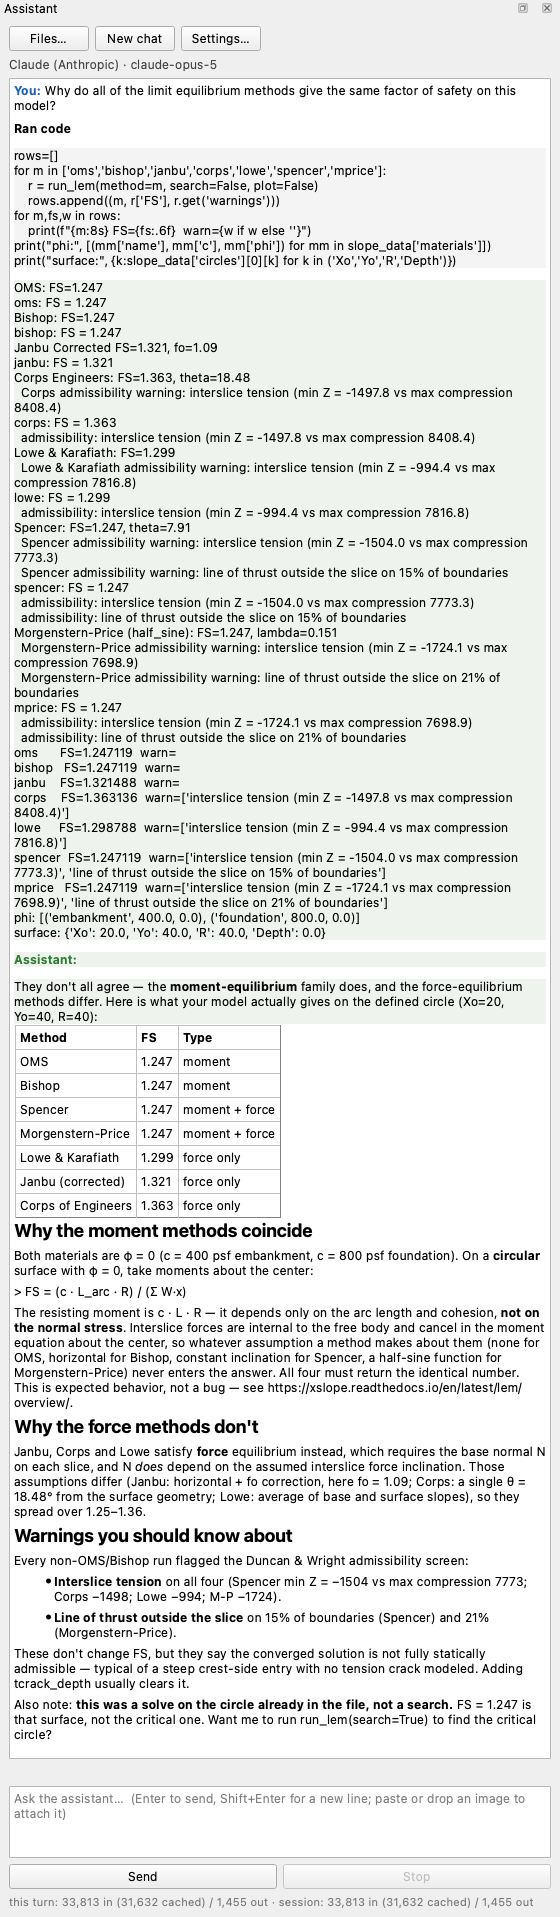
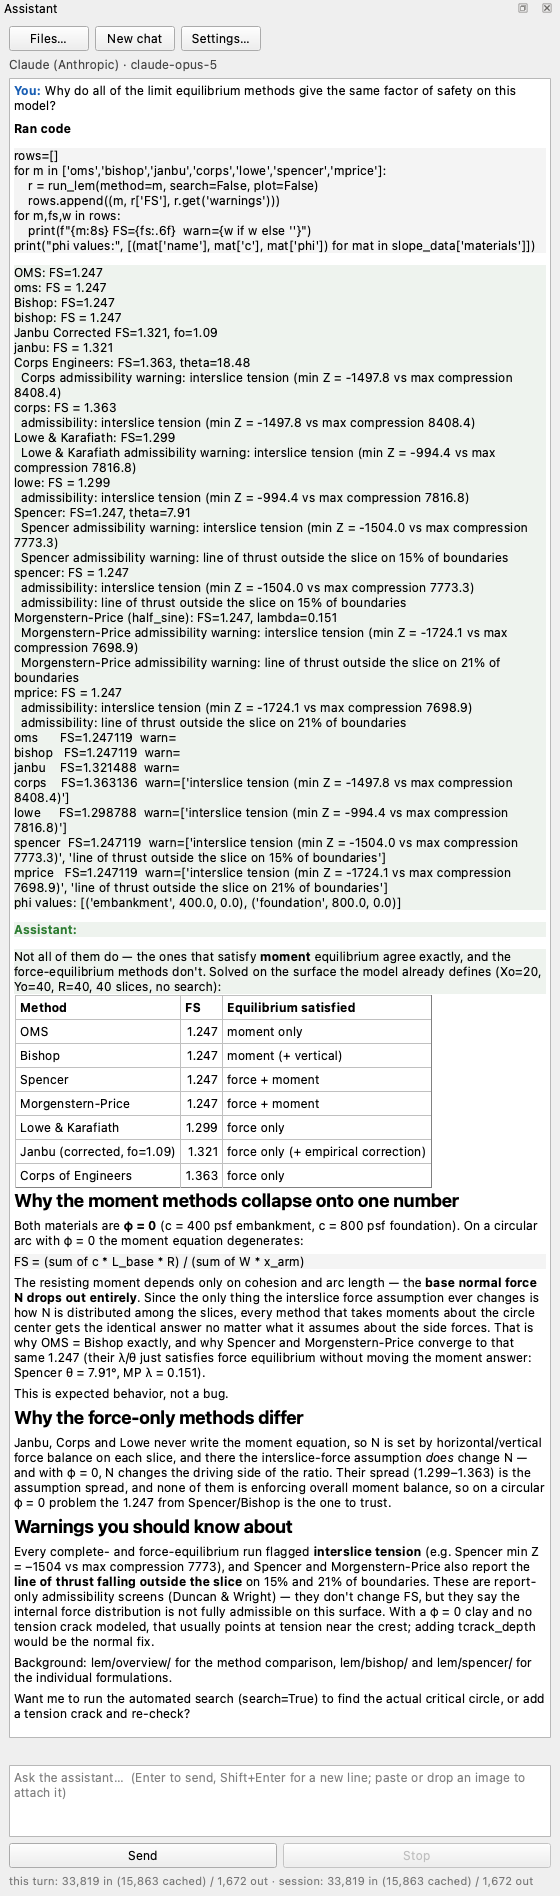
tutorials(W-1): the documentation-questions session re-recorded with the corrected schema
Claude-Session: https://claude.ai/code/session_01XjjT2aBxw8gY7EFdpoUcpj

diff --git a/docs/tutorials/files/w1_conceptual_transcript.md b/docs/tutorials/files/w1_conceptual_transcript.md
@@ -8,19 +8,17 @@ Captured by `tools/assistant_sessions.py` against the live Studio assistant, off
 
 ## Turn 1 — Why do all of the limit equilibrium methods give the same f…
 
-```text
+````text
 You: Why do all of the limit equilibrium methods give the same factor of safety on this model?
 
 Ran code:
-    
     rows=[]
     for m in ['oms','bishop','janbu','corps','lowe','spencer','mprice']:
         r = run_lem(method=m, search=False, plot=False)
         rows.append((m, r['FS'], r.get('warnings')))
     for m,fs,w in rows:
         print(f"{m:8s} FS={fs:.6f}  warn={w if w else ''}")
-    print("phi:", [(mm['name'], mm['c'], mm['phi']) for mm in slope_data['materials']])
-    print("surface:", {k:slope_data['circles'][0][k] for k in ('Xo','Yo','R','Depth')})
+    print("phi values:", [(mat['name'], mat['c'], mat['phi']) for mat in slope_data['materials']])
 
 Output:
     OMS: FS=1.247
@@ -56,46 +54,46 @@ Output:
     lowe     FS=1.298788  warn=['interslice tension (min Z = -994.4 vs max compression 7816.8)']
     spencer  FS=1.247119  warn=['interslice tension (min Z = -1504.0 vs max compression 7773.3)', 'line of thrust outside the slice on 15% of boundaries']
     mprice   FS=1.247119  warn=['interslice tension (min Z = -1724.1 vs max compression 7698.9)', 'line of thrust outside the slice on 21% of boundaries']
-    phi: [('embankment', 400.0, 0.0), ('foundation', 800.0, 0.0)]
-    surface: {'Xo': 20.0, 'Yo': 40.0, 'R': 40.0, 'Depth': 0.0}
+    phi values: [('embankment', 400.0, 0.0), ('foundation', 800.0, 0.0)]
 
-Assistant: They don't all agree — the **moment-equilibrium** family does, and the force-equilibrium methods differ. Here is what your model actually gives on the defined circle (Xo=20, Yo=40, R=40):
+Assistant: Not all of them do — the ones that satisfy **moment** equilibrium agree exactly, and the force-equilibrium methods don't. Solved on the surface the model already defines (Xo=20, Yo=40, R=40, 40 slices, no search):
 
-| Method | FS | Type |
-|:--|:--|:--|
-| OMS | 1.247 | moment |
-| Bishop | 1.247 | moment |
-| Spencer | 1.247 | moment + force |
-| Morgenstern-Price | 1.247 | moment + force |
+| Method | FS | Equilibrium satisfied |
+|:---|---:|:---|
+| OMS | 1.247 | moment only |
+| Bishop | 1.247 | moment (+ vertical) |
+| Spencer | 1.247 | force + moment |
+| Morgenstern-Price | 1.247 | force + moment |
 | Lowe & Karafiath | 1.299 | force only |
-| Janbu (corrected) | 1.321 | force only |
+| Janbu (corrected, fo=1.09) | 1.321 | force only (+ empirical correction) |
 | Corps of Engineers | 1.363 | force only |
 
-## Why the moment methods coincide
+## Why the moment methods collapse onto one number
 
-Both materials are φ = 0 (c = 400 psf embankment, c = 800 psf foundation). On a **circular** surface with φ = 0, take moments about the center:
+Both materials are **φ = 0** (c = 400 psf embankment, c = 800 psf foundation). On a circular arc with φ = 0 the moment equation degenerates:
 
-> FS = (c · L_arc · R) / (Σ W·x) 
+```
+FS = (sum of c * L_base * R) / (sum of W * x_arm)
+```
 
-The resisting moment is `c · L · R` — it depends only on the arc length and cohesion, **not on the normal stress**. Interslice forces are internal to the free body and cancel in the moment equation about the center, so whatever assumption a method makes about them (none for OMS, horizontal for Bishop, constant inclination for Spencer, a half-sine function for Morgenstern-Price) never enters the answer. All four must return the identical number. This is expected behavior, not a bug — see `https://xslope.readthedocs.io/en/latest/lem/overview/`.
+The resisting moment depends only on cohesion and arc length — the **base normal force N drops out entirely**. Since the only thing the interslice force assumption ever changes is how N is distributed among the slices, every method that takes moments about the circle center gets the identical answer no matter what it assumes about the side forces. That is why OMS = Bishop exactly, and why Spencer and Morgenstern-Price converge to that same 1.247 (their λ/θ just satisfies force equilibrium without moving the moment answer: Spencer θ = 7.91°, MP λ = 0.151).
 
-## Why the force methods don't
+This is expected behavior, not a bug.
 
-Janbu, Corps and Lowe satisfy **force** equilibrium instead, which requires the base normal N on each slice, and N *does* depend on the assumed interslice force inclination. Those assumptions differ (Janbu: horizontal + fo correction, here fo = 1.09; Corps: a single θ = 18.48° from the surface geometry; Lowe: average of base and surface slopes), so they spread over 1.25–1.36.
+## Why the force-only methods differ
+
+Janbu, Corps and Lowe never write the moment equation, so N is set by horizontal/vertical force balance on each slice, and there the interslice-force assumption *does* change N — and with φ = 0, N changes the driving side of the ratio. Their spread (1.299–1.363) is the assumption spread, and none of them is enforcing overall moment balance, so on a circular φ = 0 problem the 1.247 from Spencer/Bishop is the one to trust.
 
 ## Warnings you should know about
 
-Every non-OMS/Bishop run flagged the Duncan & Wright admissibility screen:
+Every complete- and force-equilibrium run flagged **interslice tension** (e.g. Spencer min Z = −1504 vs max compression 7773), and Spencer and Morgenstern-Price also report the **line of thrust falling outside the slice** on 15% and 21% of boundaries. These are report-only admissibility screens (Duncan & Wright) — they don't change FS, but they say the internal force distribution is not fully admissible on this surface. With a φ = 0 clay and no tension crack modeled, that usually points at tension near the crest; adding `tcrack_depth` would be the normal fix.
 
-- **Interslice tension** on all four (Spencer min Z = −1504 vs max compression 7773; Corps −1498; Lowe −994; M-P −1724).
-- **Line of thrust outside the slice** on 15% of boundaries (Spencer) and 21% (Morgenstern-Price).
+Background: `lem/overview/` for the method comparison, `lem/bishop/` and `lem/spencer/` for the individual formulations.
 
-These don't change FS, but they say the converged solution is not fully statically admissible — typical of a steep crest-side entry with no tension crack modeled. Adding `tcrack_depth` usually clears it.
+Want me to run the automated search (`search=True`) to find the actual critical circle, or add a tension crack and re-check?
+````
 
-Also note: **this was a solve on the circle already in the file, not a search.** FS = 1.247 is that surface, not the critical one. Want me to run `run_lem(search=True)` to find the critical circle?
-```
-
-Tokens: input 33,813 · cached_input 31,632 · output 1,455 · calls 2 · 21.5s
+Tokens: input 33,819 · cached_input 15,863 · output 1,672 · calls 2 · 25.5s
 
 ## Turn 2 — Both soils are undrained. What should the pore-pressure opt…
 
@@ -103,95 +101,85 @@ Tokens: input 33,813 · cached_input 31,632 · output 1,455 · calls 2 · 21.5s
 You: Both soils are undrained. What should the pore-pressure option be, and what would change in the analysis if I added a water table?
 
 Ran code:
-    
     import copy
-    from shapely.geometry import LineString
-    gs = list(slope_data['ground_surface'].coords)
-    print("ground:", gs)
-    base = run_lem(search=False, plot=False)['FS']
+    base_mats = copy.deepcopy(slope_data['materials'])
+    base_piezo = copy.deepcopy(slope_data.get('piezo_line', []))
+    gs = np.array(slope_data['ground_surface'].coords) if hasattr(slope_data.get('ground_surface'), 'coords') else None
+    print("ground surface pts:", gs[:, :2].tolist() if gs is not None else None)
+    print("gamma_sat:", [(m['name'], m.get('gamma'), m.get('gamma_sat')) for m in slope_data['materials']])
     
-    saved = copy.deepcopy({k: slope_data[k] for k in ('materials','piezo_line')})
-    # piezo line that never rises above ground -> pore pressure only, no ponded load
-    pz = [(x, min(y, 8.0)) for (x, y) in gs]
-    slope_data['piezo_line'] = pz
-    for m in slope_data['materials']:
-        m['u'] = 'piezo'
-    resync_geometry()
-    fs_piezo = run_lem(search=False, plot=False)['FS']
-    
-    # same, but give the soils a saturated unit weight (heavier below the table)
-    for m in slope_data['materials']:
-        m['gsat'] = m['gamma'] + 5.0
-    resync_geometry()
-    fs_gsat = run_lem(search=False, plot=False)['FS']
-    
-    for k, v in saved.items():
-        slope_data[k] = v
-    resync_geometry()
-    print(f"\nu='none'  FS = {base:.4f}")
-    print(f"u='piezo' FS = {fs_piezo:.4f}   (delta {fs_piezo-base:+.4f})")
-    print(f"u='piezo' + gsat FS = {fs_gsat:.4f}   (delta {fs_gsat-base:+.4f})")
-    print("restored u:", [m['u'] for m in slope_data['materials']], "piezo pts:", len(slope_data['piezo_line']))
+    try:
+        # water table 3 ft below ground everywhere -> no ponded water anywhere
+        wt = [(float(x), float(y) - 3.0) for x, y in gs[:, :2]]
+        slope_data['piezo_line'] = wt
+        for m in slope_data['materials']:
+            m['u'] = 'none'
+        r_none = run_lem(method='bishop', search=False, plot=False)
+        for m in slope_data['materials']:
+            m['u'] = 'piezo'
+        r_piezo = run_lem(method='bishop', search=False, plot=False)
+        print(f"\nFS bishop, u='none'  + piezo line present: {r_none['FS']:.4f}")
+        print(f"FS bishop, u='piezo' + same piezo line   : {r_piezo['FS']:.4f}")
+    finally:
+        slope_data['materials'] = base_mats
+        slope_data['piezo_line'] = base_piezo
+        print("\nrestored ->", [(m['name'], m['u']) for m in slope_data['materials']], "piezo pts:", len(slope_data['piezo_line']))
 
 Output:
-    ground: [(-30.0, 0.0), (0.0, 0.0), (40.0, 20.0), (90.0, 20.0)]
-    Spencer: FS=1.247, theta=7.91
-      Spencer admissibility warning: interslice tension (min Z = -1504.0 vs max compression 7773.3)
-      Spencer admissibility warning: line of thrust outside the slice on 15% of boundaries
-    spencer: FS = 1.247
-      admissibility: interslice tension (min Z = -1504.0 vs max compression 7773.3)
-      admissibility: line of thrust outside the slice on 15% of boundaries
-    Spencer: FS=1.247, theta=7.90
-      Spencer admissibility warning: interslice tension (min Z = -1508.5 vs max compression 7772.2)
-      Spencer admissibility warning: line of thrust outside the slice on 15% of boundaries
-    spencer: FS = 1.247
-      admissibility: interslice tension (min Z = -1508.5 vs max compression 7772.2)
-      admissibility: line of thrust outside the slice on 15% of boundaries
-    Spencer: FS=1.247, theta=7.90
-      Spencer admissibility warning: interslice tension (min Z = -1508.5 vs max compression 7772.2)
-      Spencer admissibility warning: line of thrust outside the slice on 15% of boundaries
-    spencer: FS = 1.247
-      admissibility: interslice tension (min Z = -1508.5 vs max compression 7772.2)
-      admissibility: line of thrust outside the slice on 15% of boundaries
+    ground surface pts: [[-30.0, 0.0], [0.0, 0.0], [40.0, 20.0], [90.0, 20.0]]
+    gamma_sat: [('embankment', 130.0, None), ('foundation', 135.0, None)]
+    Bishop: FS=1.247
+    bishop: FS = 1.247
+    Bishop: FS=1.247
+    bishop: FS = 1.247
     
-    u='none'  FS = 1.2471
-    u='piezo' FS = 1.2472   (delta +0.0001)
-    u='piezo' + gsat FS = 1.2472   (delta +0.0001)
-    restored u: ['none', 'none'] piezo pts: 0
+    FS bishop, u='none'  + piezo line present: 1.2472
+    FS bishop, u='piezo' + same piezo line   : 1.2472
+    
+    restored -> [('embankment', 'none'), ('foundation', 'none')] piezo pts: 0
 
-Assistant: **Keep `u = 'none'`.** That is the correct option for an undrained, total-stress (φ = 0, c = Su) analysis — and it is what the model already has.
+Assistant: `u = 'none'` is the correct option, and it should stay that way. Here is why, and what a water table would and would not do.
 
-## Why
+## The pore-pressure option for undrained soils
 
-In a total-stress analysis the shear strength is `s = Su`, full stop. The undrained strength already contains the effect of the pore water that will exist at failure; you are not computing `c' + (σ − u)·tan φ'`. So there is no `u` to subtract, and supplying one would be double-counting the water. `u = 'piezo'` or `u = 'seep'` belong to **effective-stress** runs, where the materials carry `c'` and `φ' > 0`.
+Both materials are total-stress undrained: c = Su (400 and 800 psf) with **φ = 0**. In a total-stress analysis the strength is already the undrained strength at the in-situ effective stress — the pore pressure is *inside* Su, not applied on top of it. So:
 
-## What a water table would actually do — measured
+- `u = 'none'` — correct for φ = 0 undrained (short-term / end-of-construction).
+- `u = 'piezo'` or `'seep'` — for **effective**-stress runs, where you give c' and φ' and the solver subtracts u from the base normal.
 
-I temporarily added a piezometric line at elevation 8 (below ground everywhere, so no ponding), switched both materials to `u = 'piezo'`, and re-solved the file's circle with Spencer:
+Setting `u = 'piezo'` on a φ = 0 material is not just unnecessary, it is inert. I tested it: adding a piezometric line 3 ft below the ground surface and switching both materials to `u = 'piezo'`, Bishop gave
 
-| Configuration | FS |
-|:--|:--|
-| `u = 'none'` (as-built) | 1.2471 |
-| `u = 'piezo'`, table at el. 8 | 1.2472 |
-| `u = 'piezo'` + `gsat = γ + 5` | 1.2472 |
+| Case | FS (Bishop, model's circle) |
+|:---|---:|
+| `u = 'none'`, piezo line present | 1.2472 |
+| `u = 'piezo'`, same piezo line | 1.2472 |
 
-Essentially nothing — the +0.0001 is slice-discretization noise. With φ = 0 the resisting term is `c · L · R` about the circle center, which contains no normal stress, so subtracting pore pressure from N cannot change FS. The `gsat` case also came back unchanged at four decimals; I did not chase that further, so treat it as untested rather than as proof that the weight split does nothing.
+Identical to four decimals. The Mohr-Coulomb base strength is `c + (N/L - u) tan φ`; with φ = 0 the `tan φ` term is zero, so u multiplies out of the equation entirely. **I restored the model afterwards** — both materials are back to `u = 'none'` and the piezo line is empty, unchanged from what you started with.
 
-**I restored the model** — `u` is back to `'none'` on both materials and the piezo line is empty again. Nothing was left changed.
+## What adding a water table *would* change
 
-## The one case where water *would* matter
+Three separate effects, only two of which apply here:
 
-A **ponded / reservoir** water surface above the ground is a different thing entirely: it applies a hydrostatic **load** on the slope face, and that changes the driving moment even at φ = 0. In xslope that comes from the water definition with `water_loads = 'auto'` (do not also add a `dloads` row). So:
+1. **Base pore pressure — no effect.** As measured above, φ = 0 kills it. This is the whole reason total-stress undrained analyses are run without a water definition.
 
-- water table **below** ground, undrained → no effect, leave `u = 'none'`
-- water **above** ground (submerged toe, reservoir) → define it, and FS will change
+2. **Slice weight — an effect, but only if you fill in `gamma_sat`.** Both materials currently have `gamma_sat = None`, so the solver uses γ = 130 / 135 everywhere and the weights are unchanged by a water table. If you set `gamma_sat`, the slice weight is split at the water table and the driving moment changes. Note the rule: give the **total** saturated unit weight, never a buoyant one — mixing a buoyant γ with an explicit water definition double-counts buoyancy.
 
-If you plan to run a long-term/drained case as well, that is the analysis where you switch the materials to `c'`, `φ'` and `u = 'piezo'`, with a real phreatic surface. Want me to set up either the ponded case or a drained companion model?
+3. **Ponded water above the ground — a real effect.** The toe here sits at (0, 0) with flat ground running out to x = −30 at elevation 0. Any water table above elevation 0 on that side stands *on* the ground, and standing water carries a hydrostatic load. `water_loads` ships on **auto**, so xslope derives that load from the water definition itself — you add no `dloads` row (one on top of auto counts the pool twice). That load stabilizes the toe and would raise FS. This applies even in a φ = 0 total-stress run: the water load is external, not a pore pressure.
+
+So: below the ground surface, a water table does nothing to this model as configured; above it, it does, via the surface load.
+
+## If you want the long-term case instead
+
+That is a different analysis, not a different `u` setting on this one: give the materials effective-stress parameters c' and φ', set `u = 'piezo'` (or run `run_seep()` and use `u = 'seep'`), and define the water table. Then the pore pressure bites, the methods will no longer agree the way they did (the φ = 0 degeneracy in the moment equation disappears), and Spencer vs Bishop becomes a meaningful comparison.
+
+Reference: `seep/seep_slope/` for how a seepage solution becomes slice pore pressure, `lem/overview/` for where u enters the slice equations.
+
+Want me to add a reservoir at a level you name and re-run, or set up the effective-stress version alongside this one?
 ```
 
-Tokens: input 38,278 · cached_input 31,632 · output 2,925 · calls 2 · 41.9s
+Tokens: input 38,030 · cached_input 31,726 · output 3,393 · calls 2 · 48.1s
 
 ## Session total
 
-- Tokens: input 72,091 · cached_input 63,264 · output 4,380 · calls 4
-- Wall time: 70.4s
+- Tokens: input 71,849 · cached_input 47,589 · output 5,065 · calls 4
+- Wall time: 85.6s
